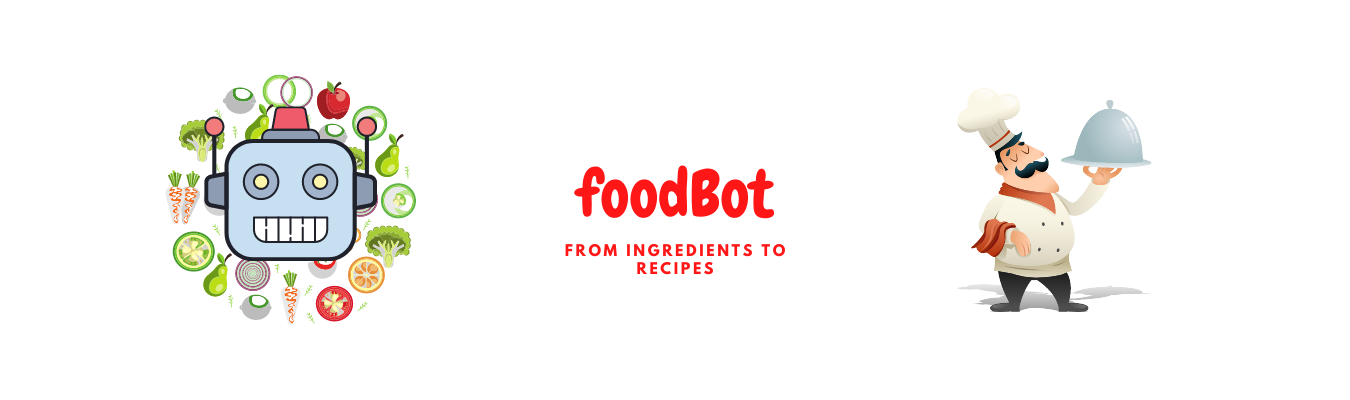
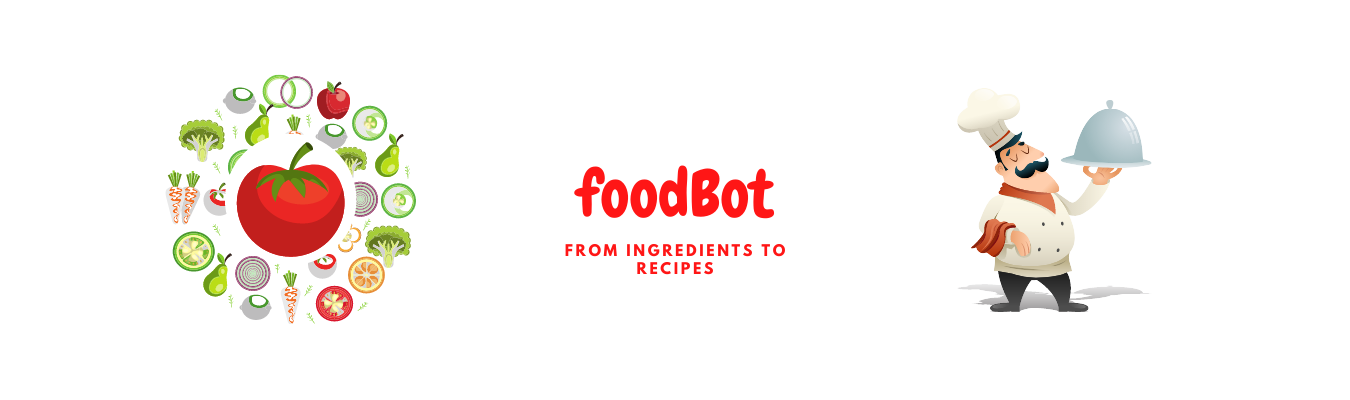
add image

Changed region(s): [[0.1244, 0.27, 0.28, 0.66]]

diff --git a/src/components/About.js b/src/components/About.js
@@ -11,12 +11,19 @@ function About() {
         </div>
         <div className="AboutText">
           <p>
-            Low carb doesn’t have to mean eating carnivore. We offer plenty of
-            vegetarian choices, enjoyed by dedicated low-carb vegetarians and
-            meat eaters alike. If you choose a so-called lacto-ovo vegetarian
-            way of eating, low carb will provide all the nutrients you need.
-            Lacto-ovo means avoiding meat, poultry, and fish, while also eating
-            vegetables, nuts, eggs, and dairy.
+            Hi, I´m foodBot! I will make the best of your Ingredients. Just pick
+            what you got and let me think about it...To give you a wide variety
+            of different Recipes I won´t insist on all the spices. If you don´t
+            have all the spices that should be added to the recipe you can find
+            an alternative yourself. I trust in your creativity. I will serve
+            you with great ideas and the main ingredients needed, you can
+            finalize the recipe with your own brainwork. Low carb doesn’t have
+            to mean eating carnivore. We offer plenty of vegetarian choices,
+            enjoyed by dedicated low-carb vegetarians and meat eaters alike. If
+            you choose a so-called lacto-ovo vegetarian way of eating, low carb
+            will provide all the nutrients you need. Lacto-ovo means avoiding
+            meat, poultry, and fish, while also eating vegetables, nuts, eggs,
+            and dairy.
             <br /> <br />
             <h2>What vegetables are preferred ?</h2>
             <br /> <br />A rule of thumb is to avoid those that grow underground

diff --git a/src/components/IngredientList.js b/src/components/IngredientList.js
@@ -12,13 +12,8 @@ export default function IngredientList({ data, buttonAction }) {
       <div className="HeaderTextContainer">
         <div className="HeaderText">
           <p>
-            Hi, I´m foodBot! I will make the best of your Ingredients. Just pick
-            what you got and let me think about it...To give you a wide variety
-            of different Recipes I won´t insist on all the spices. If you don´t
-            have all the spices that should be added to the recipe you can find
-            an alternative yourself. I trust in your creativity. I will serve
-            you with great ideas and the main ingredients needed, you can
-            finalize the recipe with your own brainwork.
+            Pick your ingredients from the drop Down Menue below and get nice
+            vegetarian lowCarb recipes!
           </p>
         </div>
       </div>

diff --git a/src/components/Recipes.js b/src/components/Recipes.js
@@ -6,6 +6,7 @@ import "./Recipes.css";
 function Recipes() {
   const { id } = useParams();
   const [recipe, setRecipe] = useState({});
+  //const [isLoading, setIsLoading] = useState(false);
 
   useEffect(() => {
     console.log("ughugh");
@@ -13,7 +14,8 @@ function Recipes() {
       .get(`https://stormy-eyrie-86891.herokuapp.com/recipes/${id}`)
       .then((res) => {
         setRecipe(res.data.data);
-      });
+      })
+      .catch((err) => console.log(err));
   }, []);
 
   console.log(recipe);

diff --git a/src/components/Results.js b/src/components/Results.js
@@ -11,7 +11,12 @@ function Results() {
   useEffect(() => {
     axios
       .get(`https://stormy-eyrie-86891.herokuapp.com/recipes${search}`)
-      .then((res) => setRecipes(res.data.data));
+      .then((res) => {
+        const resultNotFoundMsg = !res.data.data.length
+          ? "There are no search results. Please try a new search."
+          : setRecipes(res.data.data);
+      })
+      .catch((err) => console.log(err));
   }, []);
 
   return (

diff --git a/src/resetter.css b/src/resetter.css
@@ -30,9 +30,7 @@ kbd,
 q,
 s,
 samp,
-small,
-strike,
-strong,
+small
 sub,
 sup,
 tt,
